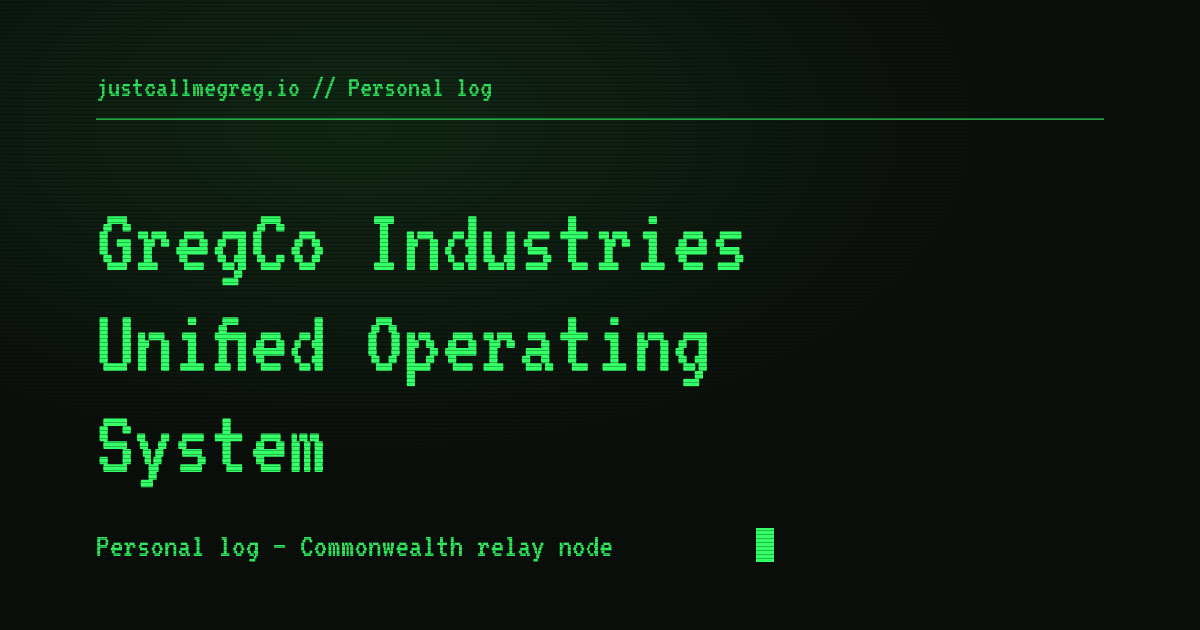
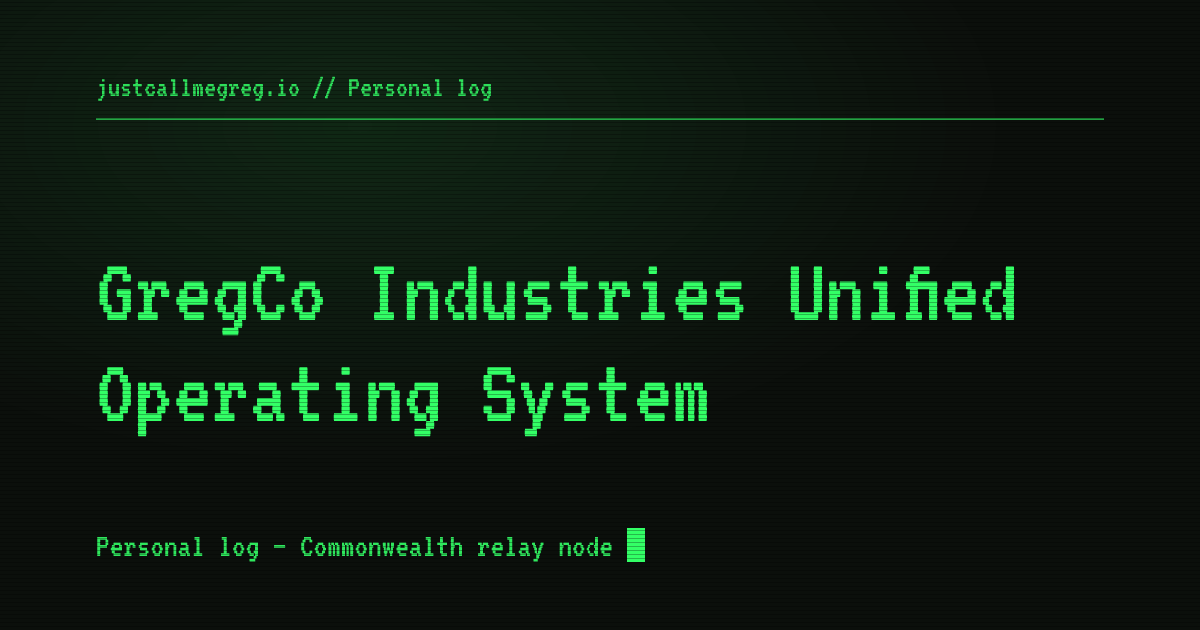
fix(og): calibrate ADVANCE to measured VT323 metrics; harden fallback; eviction+metrics tests

diff --git a/test/lib/og-card.test.ts b/test/lib/og-card.test.ts
@@ -1,4 +1,5 @@
 import { describe, it, expect } from 'vitest';
+import { readFileSync } from 'node:fs';
 import { wrapTitle, fitTitle, buildCardSvg, ADVANCE } from '../../src/lib/og/card';
 
 describe('wrapTitle', () => {
@@ -37,6 +38,35 @@ describe('fitTitle', () => {
   it('does not ellipsize when the title fits exactly', () => {
     const { lines } = fitTitle('Serving a Public Website From My Home Cluster');
     expect(lines.join(' ').includes('…')).toBe(false);
+  });
+});
+
+describe('ADVANCE calibration', () => {
+  it('matches the measured advance-width ratio of the bundled VT323 font', () => {
+    // Minimal sfnt (TrueType) table-directory parse — no new dependencies.
+    // Layout reference: https://learn.microsoft.com/typography/opentype/spec/otff
+    const buf = readFileSync('./public/fonts/VT323-Regular.ttf');
+    const dv = new DataView(buf.buffer, buf.byteOffset, buf.byteLength);
+    const numTables = dv.getUint16(4);
+    const tables: Record<string, { offset: number; length: number }> = {};
+    for (let i = 0; i < numTables; i++) {
+      const rec = 12 + i * 16;
+      const tag = String.fromCharCode(
+        dv.getUint8(rec),
+        dv.getUint8(rec + 1),
+        dv.getUint8(rec + 2),
+        dv.getUint8(rec + 3)
+      );
+      tables[tag] = { offset: dv.getUint32(rec + 8), length: dv.getUint32(rec + 12) };
+    }
+    const unitsPerEm = dv.getUint16(tables['head'].offset + 18);
+    const numberOfHMetrics = dv.getUint16(tables['hhea'].offset + 34);
+    // Glyph 0 (.notdef) may have a different advance than the rendered glyphs;
+    // read the LAST hMetric instead, which for a monospace font like VT323
+    // carries the shared advance used by every rendered glyph.
+    const lastMetricOffset = tables['hmtx'].offset + (numberOfHMetrics - 1) * 4;
+    const advanceWidth = dv.getUint16(lastMetricOffset);
+    expect(advanceWidth / unitsPerEm).toBe(ADVANCE);
   });
 });
 

diff --git a/test/lib/og-render.test.ts b/test/lib/og-render.test.ts
@@ -1,5 +1,5 @@
 import { describe, it, expect, beforeEach } from 'vitest';
-import { renderCardPng, defaultBannerPng, __resetOgCacheForTests } from '../../src/lib/og/render';
+import { renderCardPng, defaultBannerPng, __resetOgCacheForTests, CACHE_MAX } from '../../src/lib/og/render';
 
 const input = { header: 'GregCo // Personal log', title: 'A Test Post', meta: '2026-07-14 · 6 min read' };
 
@@ -25,6 +25,34 @@ describe('renderCardPng', () => {
     expect(b).not.toBeNull();
     expect(a!.equals(b!)).toBe(false);
   });
+});
+
+describe('cache eviction (FIFO cap)', () => {
+  beforeEach(() => __resetOgCacheForTests());
+
+  // Tiny cards (1-char header/title/meta) keep resvg render time down since
+  // this fills the cache to CACHE_MAX + 1 entries (~201 renders).
+  it('evicts the oldest entry once CACHE_MAX is exceeded, while recent entries stay cached', () => {
+    const tiny = { header: 'h', title: 'T', meta: 'm' };
+    const oldestKey = 'evict-0';
+    const oldest = renderCardPng(oldestKey, tiny);
+    for (let i = 1; i < CACHE_MAX; i++) {
+      renderCardPng(`evict-${i}`, tiny);
+    }
+    // Cache now holds exactly CACHE_MAX entries: evict-0 .. evict-(CACHE_MAX-1).
+    const recentKey = `evict-${CACHE_MAX - 1}`;
+    const recentBefore = renderCardPng(recentKey, tiny); // cache hit, not a new render
+
+    // One more insert overflows the cap and must evict the oldest (evict-0).
+    renderCardPng('evict-overflow', tiny);
+
+    const oldestAfter = renderCardPng(oldestKey, tiny);
+    expect(oldestAfter).not.toBeNull();
+    expect(oldestAfter).not.toBe(oldest); // evicted → freshly re-rendered, not the cached Buffer
+
+    const recentAfter = renderCardPng(recentKey, tiny);
+    expect(recentAfter).toBe(recentBefore); // still cached, identical Buffer
+  }, 30000);
 });
 
 describe('defaultBannerPng', () => {

diff --git a/src/lib/og/render.ts b/src/lib/og/render.ts
@@ -11,10 +11,16 @@ const FONT_SOURCES = ['./dist/client/fonts/VT323-Regular.ttf', './public/fonts/V
 const DEFAULT_SOURCES = ['./dist/client/og-default.png', './public/og-default.png'];
 
 function readFirst(paths: string[]): Buffer | null {
-  for (const p of paths) {
-    if (existsSync(p)) return readFileSync(p);
+  try {
+    for (const p of paths) {
+      if (existsSync(p)) return readFileSync(p);
+    }
+    return null;
+  } catch {
+    // TOCTOU: file could vanish between existsSync and readFileSync (or be
+    // unreadable). Never let this escape — callers fall back to null.
+    return null;
   }
-  return null;
 }
 
 let fontBuf: Buffer | null | undefined;
@@ -26,7 +32,8 @@ export function defaultBannerPng(): Buffer | null {
 }
 
 const cache = new Map<string, Buffer>();
-const CACHE_MAX = 200;
+/** FIFO cache cap; exported so tests can exercise eviction without a magic number. */
+export const CACHE_MAX = 200;
 const warned = new Set<string>();
 
 /** Cached SVG→PNG render. Returns null on any failure (warned once per key). */

diff --git a/src/lib/og/card.ts b/src/lib/og/card.ts
@@ -13,8 +13,12 @@ const W = 1200;
 const H = 630;
 const MARGIN = 96;
 const MAX_TEXT_WIDTH = W - 2 * MARGIN; // 1008
-/** VT323 advance-width ratio (advance / font-size). Pixel font, half-width grid. */
-export const ADVANCE = 0.5;
+/**
+ * VT323 advance-width ratio (advance / font-size). Measured from the bundled
+ * font: unitsPerEm=1000, advanceWidth=400 for all rendered glyphs → 0.4 em.
+ * See test/lib/og-card.test.ts for a guard that parses the font and asserts this.
+ */
+export const ADVANCE = 0.4;
 const TITLE_SIZES = [96, 84, 72, 60];
 const MAX_LINES = 4;
 /** Vertical space available for the title block, between the divider and the meta line. */
